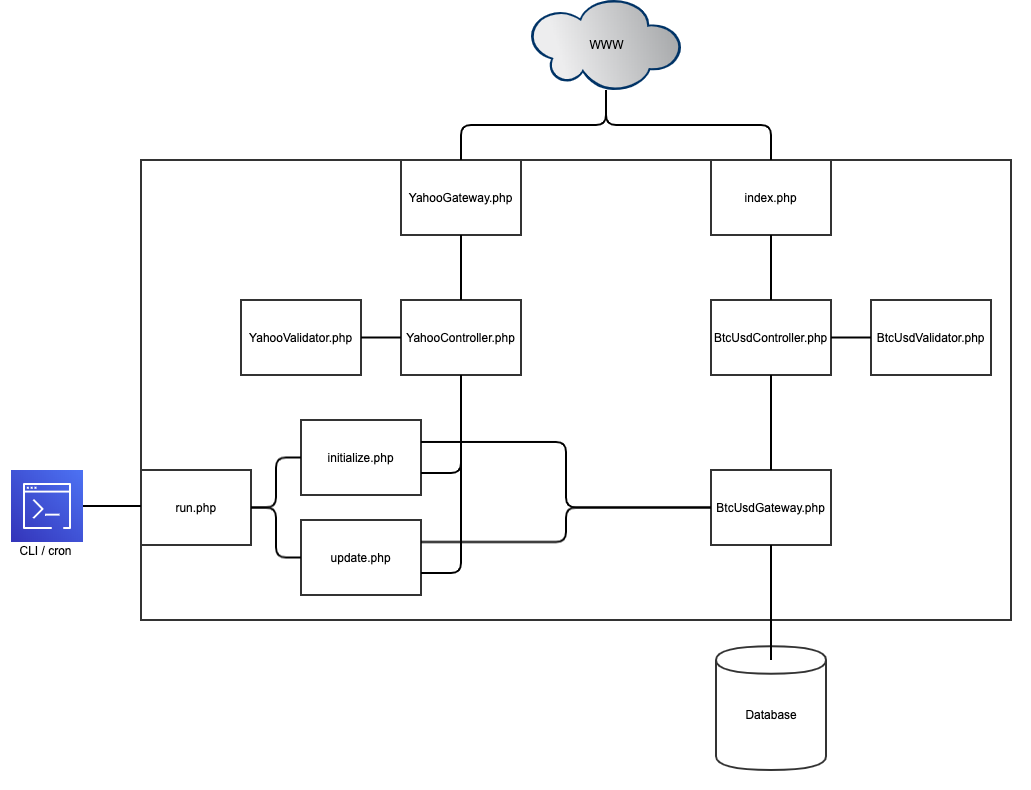
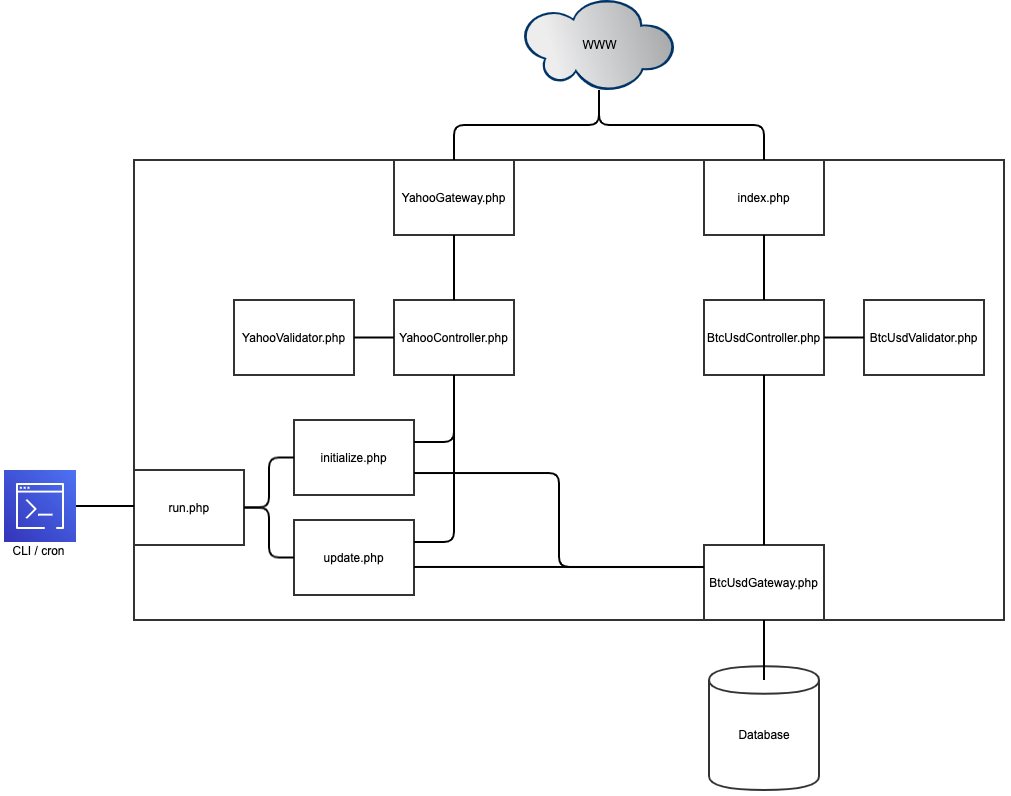
Contd. design documentation

diff --git a/documents/DOCUMENTATION.md b/documents/DOCUMENTATION.md
@@ -113,7 +113,9 @@ The interaction between the entry points (API, CLI, cron) and the database or th
 
 The API serves the data via the `json` format which, along with `xml` is very popular. PHP has a set of core functions to translate form and to `json` which makes it handy. The JavaScript interprets it naturally. Nevertheless, adding another format (like `xml`) would be very easy thanks to the architectural runway in place.
 
-[ToDo back-end classes and db diagram]
+A `.htaccess` file rewrites the API url to the front controller (`index.php`) and encapsulates the rest of the code.
+
+![php diagram](https://github.com/ClemRz/bitcoin-analyzer/raw/master/documents/diagram.png "PHP diagram")
 
 ## Front-end
 
